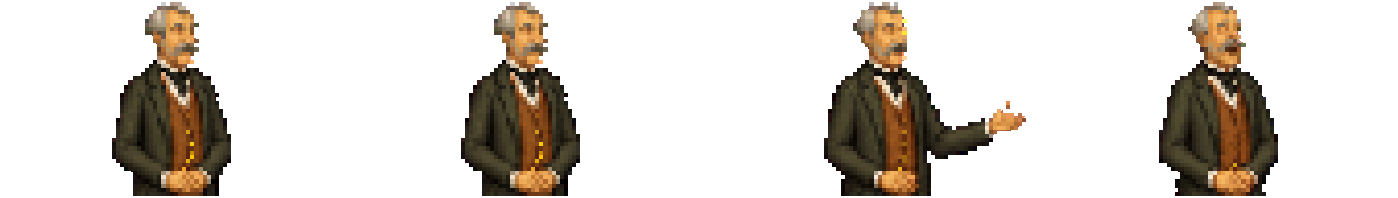
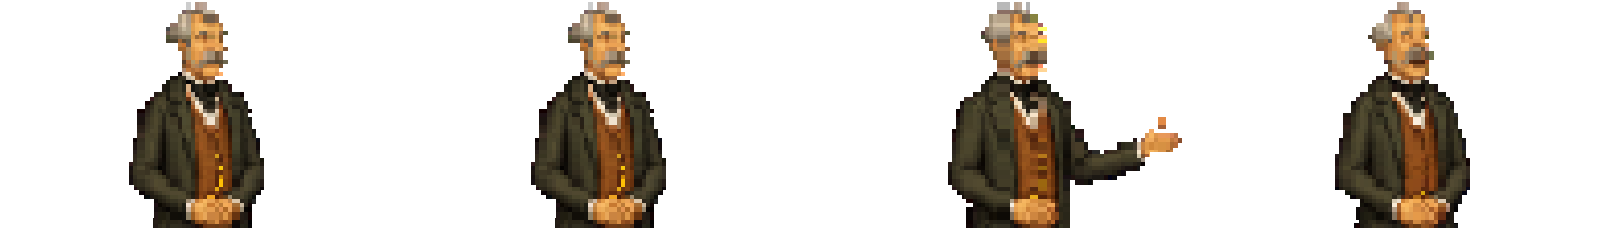
Errata 367: the Colonel at his desk, 15% bigger
Each frame read back to its art pixels, drawn 15% larger, re-snapped to the
one level with one-level.py --resnap. Office and dinner sheets. Not the lobby
clerk: 15% bigger breaks the waist-up rule (0.45 of a man); he is at it.

Claude-Session: https://claude.ai/code/session_01FXbCus2Hm36NL2YuHFGB8T

diff --git a/tools/art/desk-figures-bigger.py b/tools/art/desk-figures-bigger.py
@@ -1,0 +1,100 @@
+"""ERRATA 367: THE COLONEL AT HIS DESK, 15% BIGGER (Tyler, 2026-11-16: "Yeah fanshawe is too short behind the desk";
+then "Go"). No image operation.
+
+A behind-counter sheet is drawn 1:1 (no figureHeight), its waist on the desk's back edge. Each frame is read back to its
+own art pixels -- one sample at the centre of each block of the sheet's grid, anchored at the frame's bottom-left as
+tools/art/one-level.py anchors it -- and drawn again 15% larger. The frame grows about its centre, so the engine, which
+centres a frame on the figure's x and stands it on its y, draws him where he was, bigger, and the bottom row (the cut
+along the desk) stays the bottom row. Then the sheet is put back on the game's one level (errata 112 G: a man is 115 art
+pixels) by `tools/art/one-level.py --only <sheet> --resnap`, which samples each block at its centre, so nothing is
+blurred: each art pixel is one of the drawing's own, and about one row and column in seven is drawn twice.
+
+    python3 tools/art/desk-figures-bigger.py [--write]
+
+Each sheet and its frames are read from their first state, kept in art/staging/desk-figures-bigger/, so a re-run gives
+the same pixels.
+
+Not the lobby clerk: drawn 15% bigger he is 0.52 of a man from crown to counter, past the waist-up rule's 0.45
+(tests/scale.test.ts, from the church's preacher "enormous behind the podium"); as he is, he is at it.
+"""
+import json
+import os
+import shutil
+import subprocess
+import sys
+
+import numpy as np
+from PIL import Image
+
+ROOT = os.path.dirname(os.path.dirname(os.path.dirname(os.path.abspath(__file__))))
+R = lambda p: os.path.join(ROOT, p)
+WRITE = '--write' in sys.argv
+SCALE = 1.15
+KEEP = 'art/staging/desk-figures-bigger'
+# record, spriteWhen index or None, the sheet's block (its grid as shipped: tools/art/one-level.py --dry)
+SHEETS = [('fanshawe', None, 4.09), ('fanshawe', 0, 4.09)]
+
+
+def first_state(path):
+    keep = f'{KEEP}/{os.path.basename(path)}'
+    if not os.path.exists(R(keep)):
+        os.makedirs(R(KEEP), exist_ok=True); shutil.copy(R(path), R(keep))
+    return np.asarray(Image.open(R(keep)).convert('RGBA'))
+
+
+def bigger(frame, b0, b1):
+    h, w = frame.shape[:2]
+    cols, rows = int(np.ceil(w / b0)), int(np.ceil(h / b0))
+    w1, h1 = int(round(cols * b1)), int(round(rows * b1))
+    xs = np.arange(w1); ys = np.arange(h1)
+    col = np.minimum((xs / b1).astype(int), cols - 1)
+    row = np.minimum(((h1 - 1 - ys) / b1).astype(int), rows - 1)          # from the bottom
+    sx = np.minimum(((col + 0.5) * b0).astype(int), w - 1)
+    sy = np.clip(h - 1 - ((row + 0.5) * b0).astype(int), 0, h - 1)
+    return frame[sy][:, sx]
+
+
+def key(name, when):
+    return name if when is None else f'{name}#{when}'
+
+
+def sprite(rec, when):
+    return rec['sprite'] if when is None else rec['spriteWhen'][when]['sprite']
+
+
+def main():
+    report = []
+    # the frame rects as they stood before this tool, kept with the sheets, so a re-run reads the same cells
+    kept = R(f'{KEEP}/frames.json')
+    if not os.path.exists(kept):
+        os.makedirs(R(KEEP), exist_ok=True)
+        json.dump({key(n, w): sprite(json.load(open(R(f'content/ambient/{n}.json'))), w)['frames'] for n, w, _ in SHEETS},
+                  open(kept, 'w'), indent=1)
+    first_frames = json.load(open(kept))
+    for rec_name, when, b0 in SHEETS:
+        path = R(f'content/ambient/{rec_name}.json'); text = open(path).read(); rec = json.loads(text)
+        sp = sprite(rec, when)
+        sheet_path = sp['sheet']; src = first_state(sheet_path)
+        b1 = b0 * SCALE
+        cells = [bigger(src[y:y + h, x:x + w], b0, b1) for x, y, w, h in first_frames[key(rec_name, when)]]
+        cw = max(c.shape[1] for c in cells); ch = max(c.shape[0] for c in cells)
+        cw += cw % 2
+        out = np.zeros((ch + 4, 2 + len(cells) * (cw + 2), 4), np.uint8); new_frames = []
+        for i, c in enumerate(cells):
+            x = 2 + i * (cw + 2) + (cw - c.shape[1]) // 2; y = 2 + ch - c.shape[0]
+            out[y:y + c.shape[0], x:x + c.shape[1]] = c
+            new_frames.append([2 + i * (cw + 2), 2, cw, ch])
+        report.append({'sheet': sheet_path, 'block': [b0, round(b1, 3)], 'frames': new_frames})
+        if WRITE:
+            Image.fromarray(out).save(R(sheet_path))
+            sp['frames'] = new_frames   # a spriteWhen sheet has its own frame rects
+            open(path, 'w').write(json.dumps(rec, indent=1, ensure_ascii=False) + ('\n' if text.endswith('\n') else ''))
+    if WRITE:
+        # back on the one level, every block one of the drawing's own colours
+        subprocess.run([sys.executable, R('tools/art/one-level.py'), '--resnap', '--only',
+                        *sorted({os.path.basename(r['sheet']) for r in report})], check=True)
+    print(json.dumps(report, indent=1))
+
+
+if __name__ == '__main__':
+    main()

diff --git a/docs/00-errata.md b/docs/00-errata.md
@@ -8703,3 +8703,13 @@ Wired as handed back: the town, left, on five 402 x 255 frames at figureHeight 2
 Left as it is: `room-14-fanshawe-coming-down.png`, which no record uses. The Colonel at his desk is drawn at the size he ships at today, not the room's curve, which is the lobby clerk's open question (`reference/act-one-art/handback.md`).
 
 Lesson: none -- new art wired as handed back and approved; no defect is fixed.
+
+## 367 · The Colonel at his desk, 15% bigger (Tyler, 2026-11-16: "Yeah fanshawe is too short behind the desk", then "Go")
+
+He stands behind his desk, drawn 1:1 with his waist on its back edge, at the size his sheet was cut to rather than the room's curve (errata 366 left this open). He is now drawn 15% bigger, at his desk and turned to the table at the dinner, without an image operation: `tools/art/desk-figures-bigger.py` reads each frame back to its own art pixels, draws it 15% larger, and puts it back on the game's one level (errata 112 G) with `tools/art/one-level.py --resnap`, which takes each block's colour from the drawing at its centre, so nothing is blurred; about one row and column in seven is drawn twice. The bottom row stays on the desk's edge and each frame grows about its centre, so he does not move. The sheets as they were, and their frames, are kept in `art/staging/desk-figures-bigger/`, and the tool reads from them, so a re-run gives the same pixels.
+
+Not the lobby clerk, though it was offered: drawn 15% bigger he is 0.52 of a man from crown to counter, past the waist-up rule's 0.45 (`tests/scale.test.ts`, from the church preacher "enormous behind the podium"). As he is, he is at that rule's limit, so he stays.
+
+Seen in the build with Thad in the room: the office and the dinner.
+
+Lesson: `tests/desk-figures-bigger.test.mjs`: each of his frames, and the figure drawn in them, is at least 14% taller than the kept sheets'; failing on main before this.
